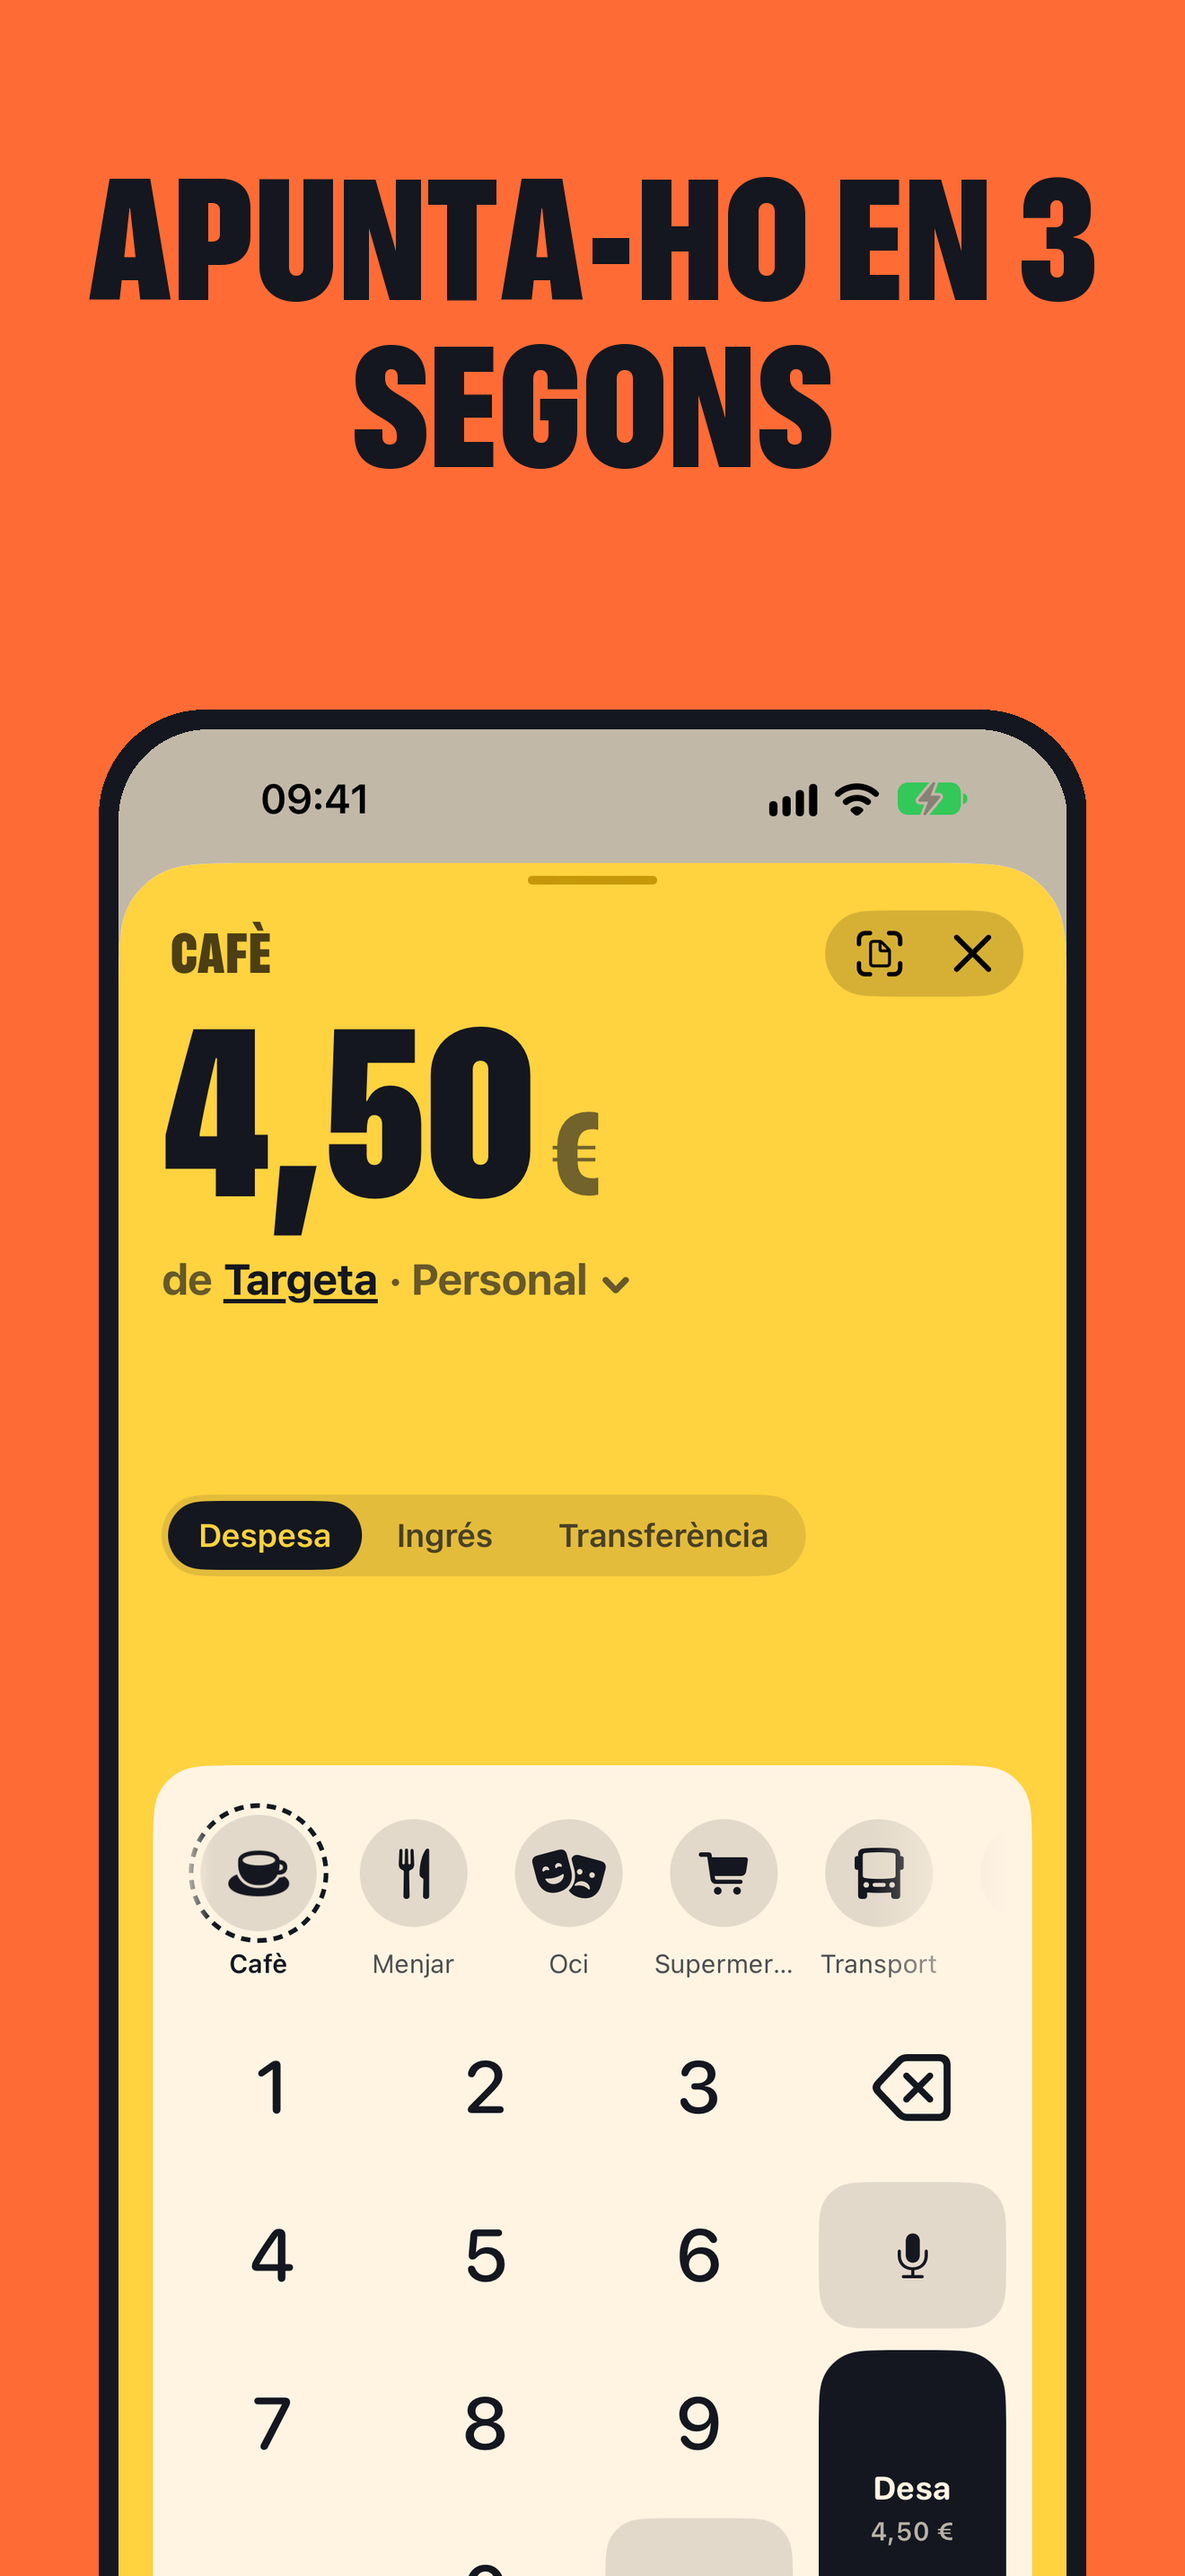
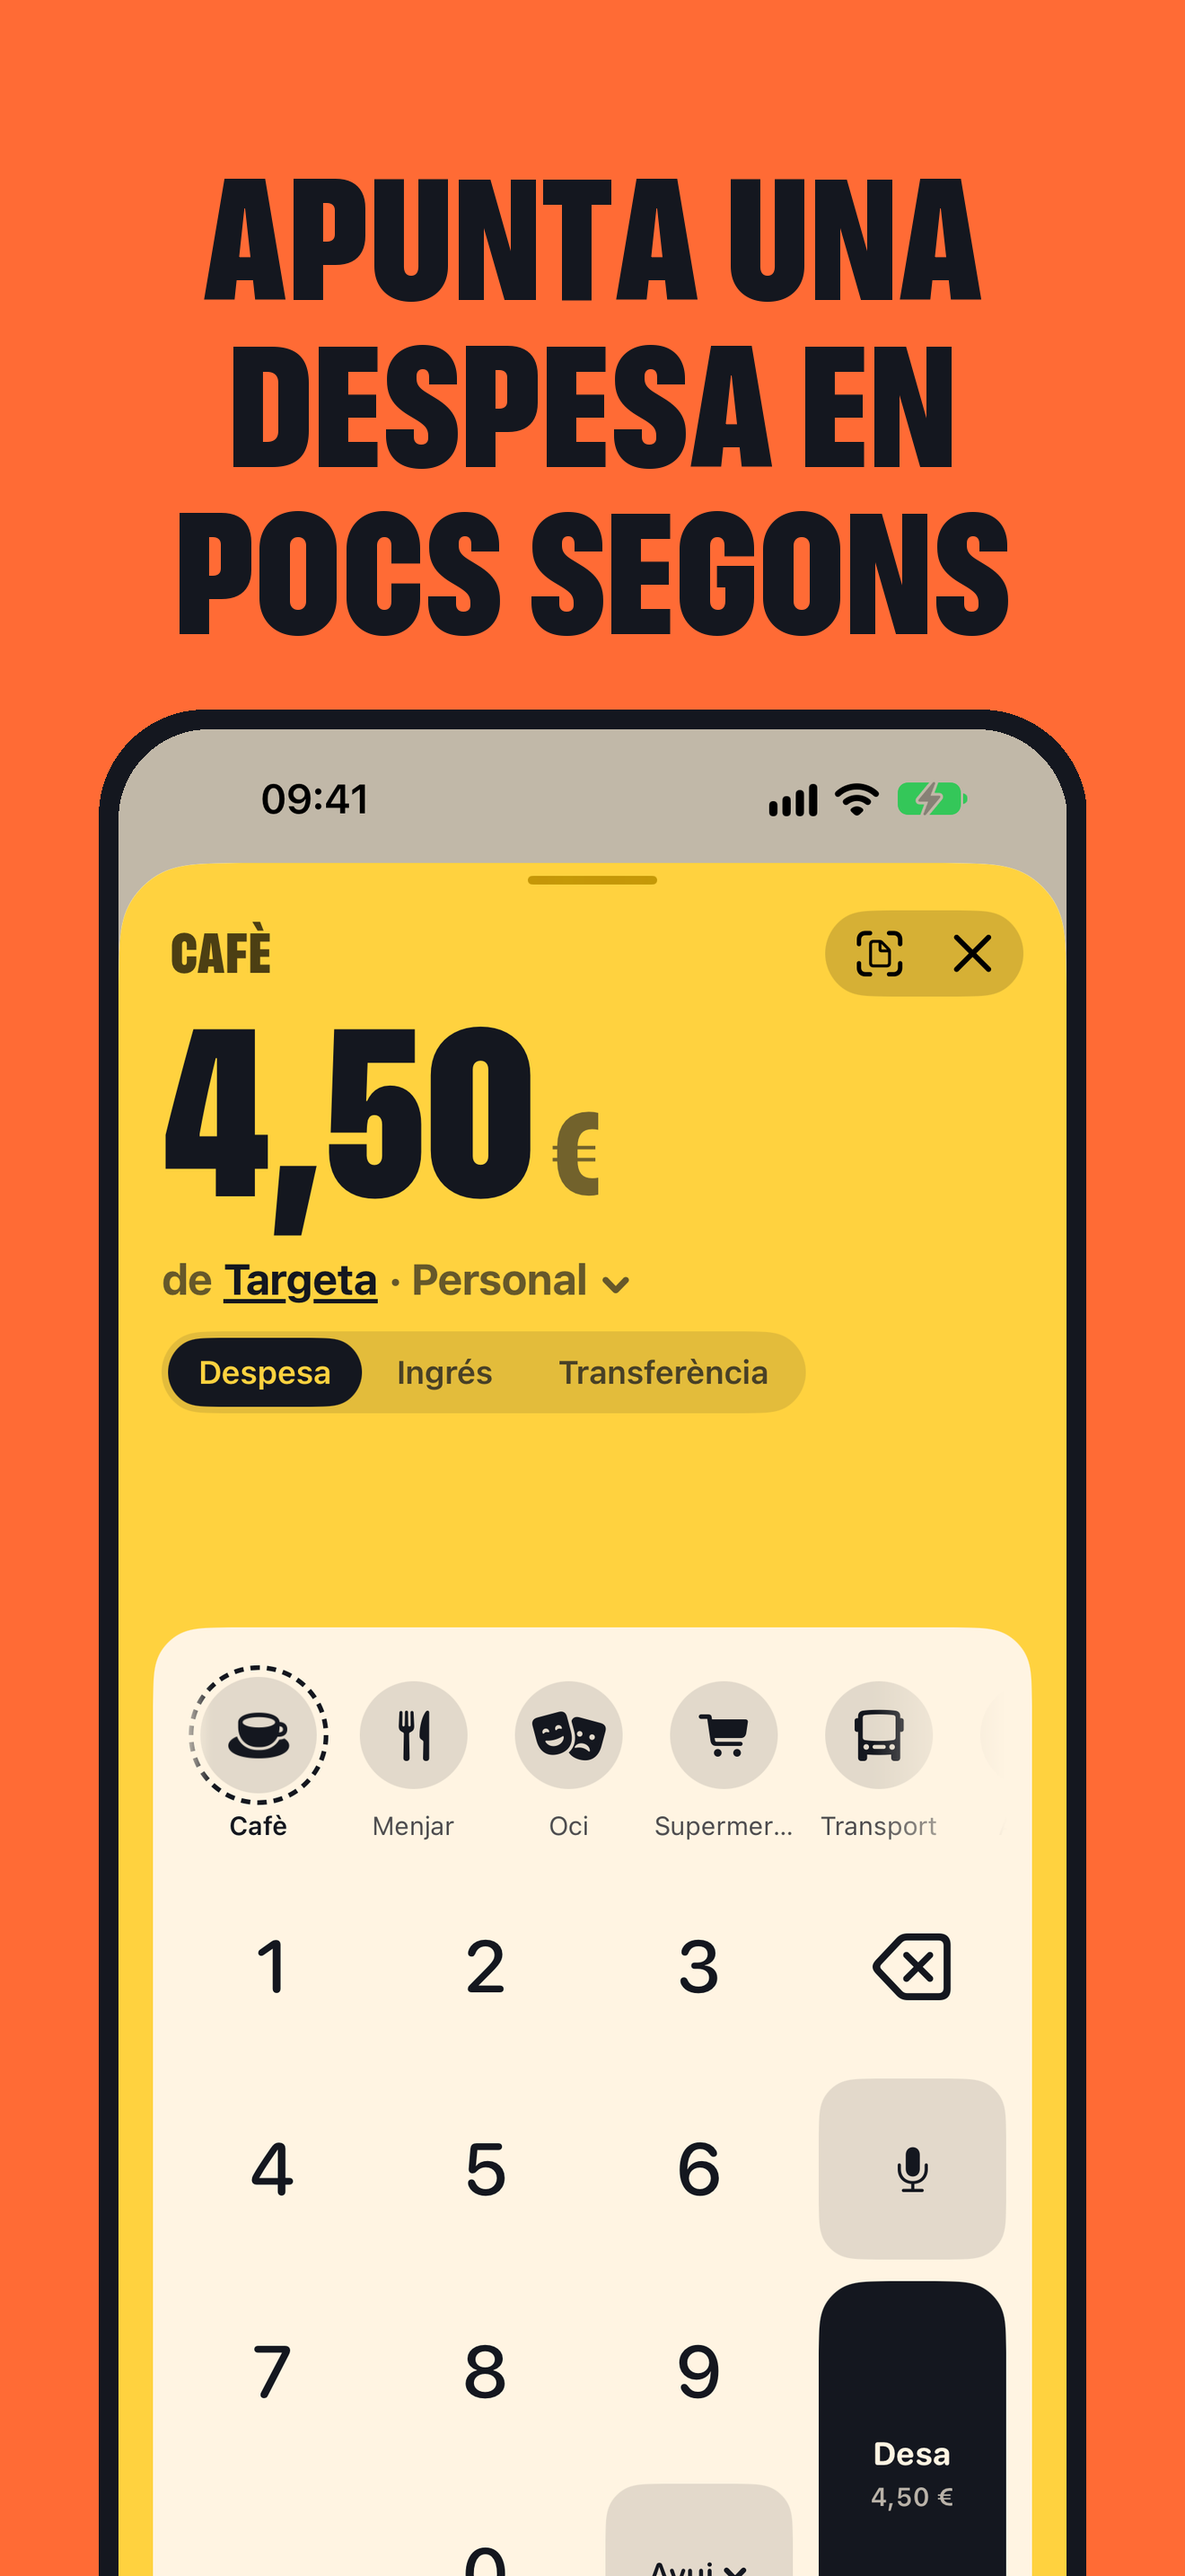
Log spending in seconds, with the 1.0.1 screenshots

diff --git a/src/i18n/ui.ts b/src/i18n/ui.ts
@@ -62,24 +62,29 @@ type Strings = {
 export const ui: Record<Lang, Strings> = {
 	en: {
 		meta: {
-			title: 'Monibo · Log spending in 3 seconds',
+			title: 'Monibo · Log spending in seconds',
 			description:
 				'Monibo is the expense tracker for iPhone and Apple Watch that opens straight to the keypad. No account, no ads, your data on your device.',
 		},
 		nav: { features: 'Features', pro: 'Pro', support: 'Support', privacy: 'Privacy', terms: 'Terms' },
 		hero: {
 			kicker: 'For iPhone and Apple Watch',
-			title: 'Log spending in 3 seconds',
+			title: 'Log spending in seconds',
 			lead: 'Tap, type the amount, done. Monibo makes tracking your money so quick you’ll actually keep doing it.',
 			note: 'No account · No ads · No tracking',
 		},
 		store: { download: 'Download on the', downloadBig: 'App Store', soon: 'Coming soon', soonSub: 'to the App Store' },
 		shots: [
-			'Quick entry opens on the keypad',
-			'Every transaction, searchable',
-			'Monthly summary by category',
-			'Weekly review of what’s pending',
+			'Log an expense in seconds',
+			'Say it in your own words',
+			'Widgets, Siri and the Action button',
+			'Apple Watch',
+			'Apple Pay and bank texts, logged for you',
+			'Monthly summary',
+			'Bring your history from other apps',
+			'Ask about your spending',
 			'Profiles and accounts',
+			'Synced through iCloud',
 		],
 		featuresTitle: 'Everything it takes, nothing in the way',
 		features: [
@@ -149,24 +154,29 @@ export const ui: Record<Lang, Strings> = {
 	},
 	ca: {
 		meta: {
-			title: 'Monibo · Apunta la despesa en 3 segons',
+			title: 'Monibo · Apunta despeses en pocs segons',
 			description:
 				'Monibo és l’app de despeses per a iPhone i Apple Watch que s’obre directament al teclat. Sense compte, sense anuncis, amb les dades al teu dispositiu.',
 		},
 		nav: { features: 'Funcions', pro: 'Pro', support: 'Suport', privacy: 'Privacitat', terms: 'Condicions' },
 		hero: {
 			kicker: 'Per a iPhone i Apple Watch',
-			title: 'Apunta la despesa en 3 segons',
+			title: 'Apunta despeses en pocs segons',
 			lead: 'Un toc, l’import i fet. Monibo fa que apuntar els diners sigui tan ràpid que no ho deixaràs de fer.',
 			note: 'Sense compte · Sense anuncis · Sense seguiment',
 		},
 		store: { download: 'Descarrega-la a', downloadBig: 'l’App Store', soon: 'Molt aviat', soonSub: 'a l’App Store' },
 		shots: [
-			'L’entrada ràpida s’obre al teclat',
-			'Tots els moviments, amb cerca',
-			'Resum mensual per categoria',
-			'Revisió setmanal del que queda pendent',
+			'Apunta una despesa en pocs segons',
+			'Digues-ho a la teva manera',
+			'Widgets, Siri i el botó d’acció',
+			'Apple Watch',
+			'Apple Pay i avisos del banc, apuntats sols',
+			'Resum mensual',
+			'Porta l’historial d’altres apps',
+			'Pregunta sobre la despesa',
 			'Perfils i comptes',
+			'Sincronitzat amb iCloud',
 		],
 		featuresTitle: 'Tot el que cal, res que destorbi',
 		features: [
@@ -236,24 +246,29 @@ export const ui: Record<Lang, Strings> = {
 	},
 	es: {
 		meta: {
-			title: 'Monibo · Apunta gastos en 3 segundos',
+			title: 'Monibo · Apunta tus gastos en segundos',
 			description:
 				'Monibo es la app de gastos para iPhone y Apple Watch que se abre directamente en el teclado. Sin cuenta, sin anuncios, con tus datos en tu dispositivo.',
 		},
 		nav: { features: 'Funciones', pro: 'Pro', support: 'Soporte', privacy: 'Privacidad', terms: 'Condiciones' },
 		hero: {
 			kicker: 'Para iPhone y Apple Watch',
-			title: 'Apunta gastos en 3 segundos',
+			title: 'Apunta tus gastos en segundos',
 			lead: 'Un toque, el importe y listo. Monibo hace que apuntar tu dinero sea tan rápido que no lo dejarás.',
 			note: 'Sin cuenta · Sin anuncios · Sin seguimiento',
 		},
 		store: { download: 'Descárgala en el', downloadBig: 'App Store', soon: 'Muy pronto', soonSub: 'en el App Store' },
 		shots: [
-			'La entrada rápida se abre en el teclado',
-			'Todos los movimientos, con búsqueda',
-			'Resumen mensual por categoría',
-			'Revisión semanal de lo pendiente',
+			'Apunta un gasto en segundos',
+			'Dilo a tu manera',
+			'Widgets, Siri y el botón de acción',
+			'Apple Watch',
+			'Apple Pay y avisos del banco, apuntados solos',
+			'Resumen mensual',
+			'Trae tu historial de otras apps',
+			'Pregunta sobre tus gastos',
 			'Perfiles y cuentas',
+			'Sincronizado con iCloud',
 		],
 		featuresTitle: 'Todo lo necesario, nada que estorbe',
 		features: [
